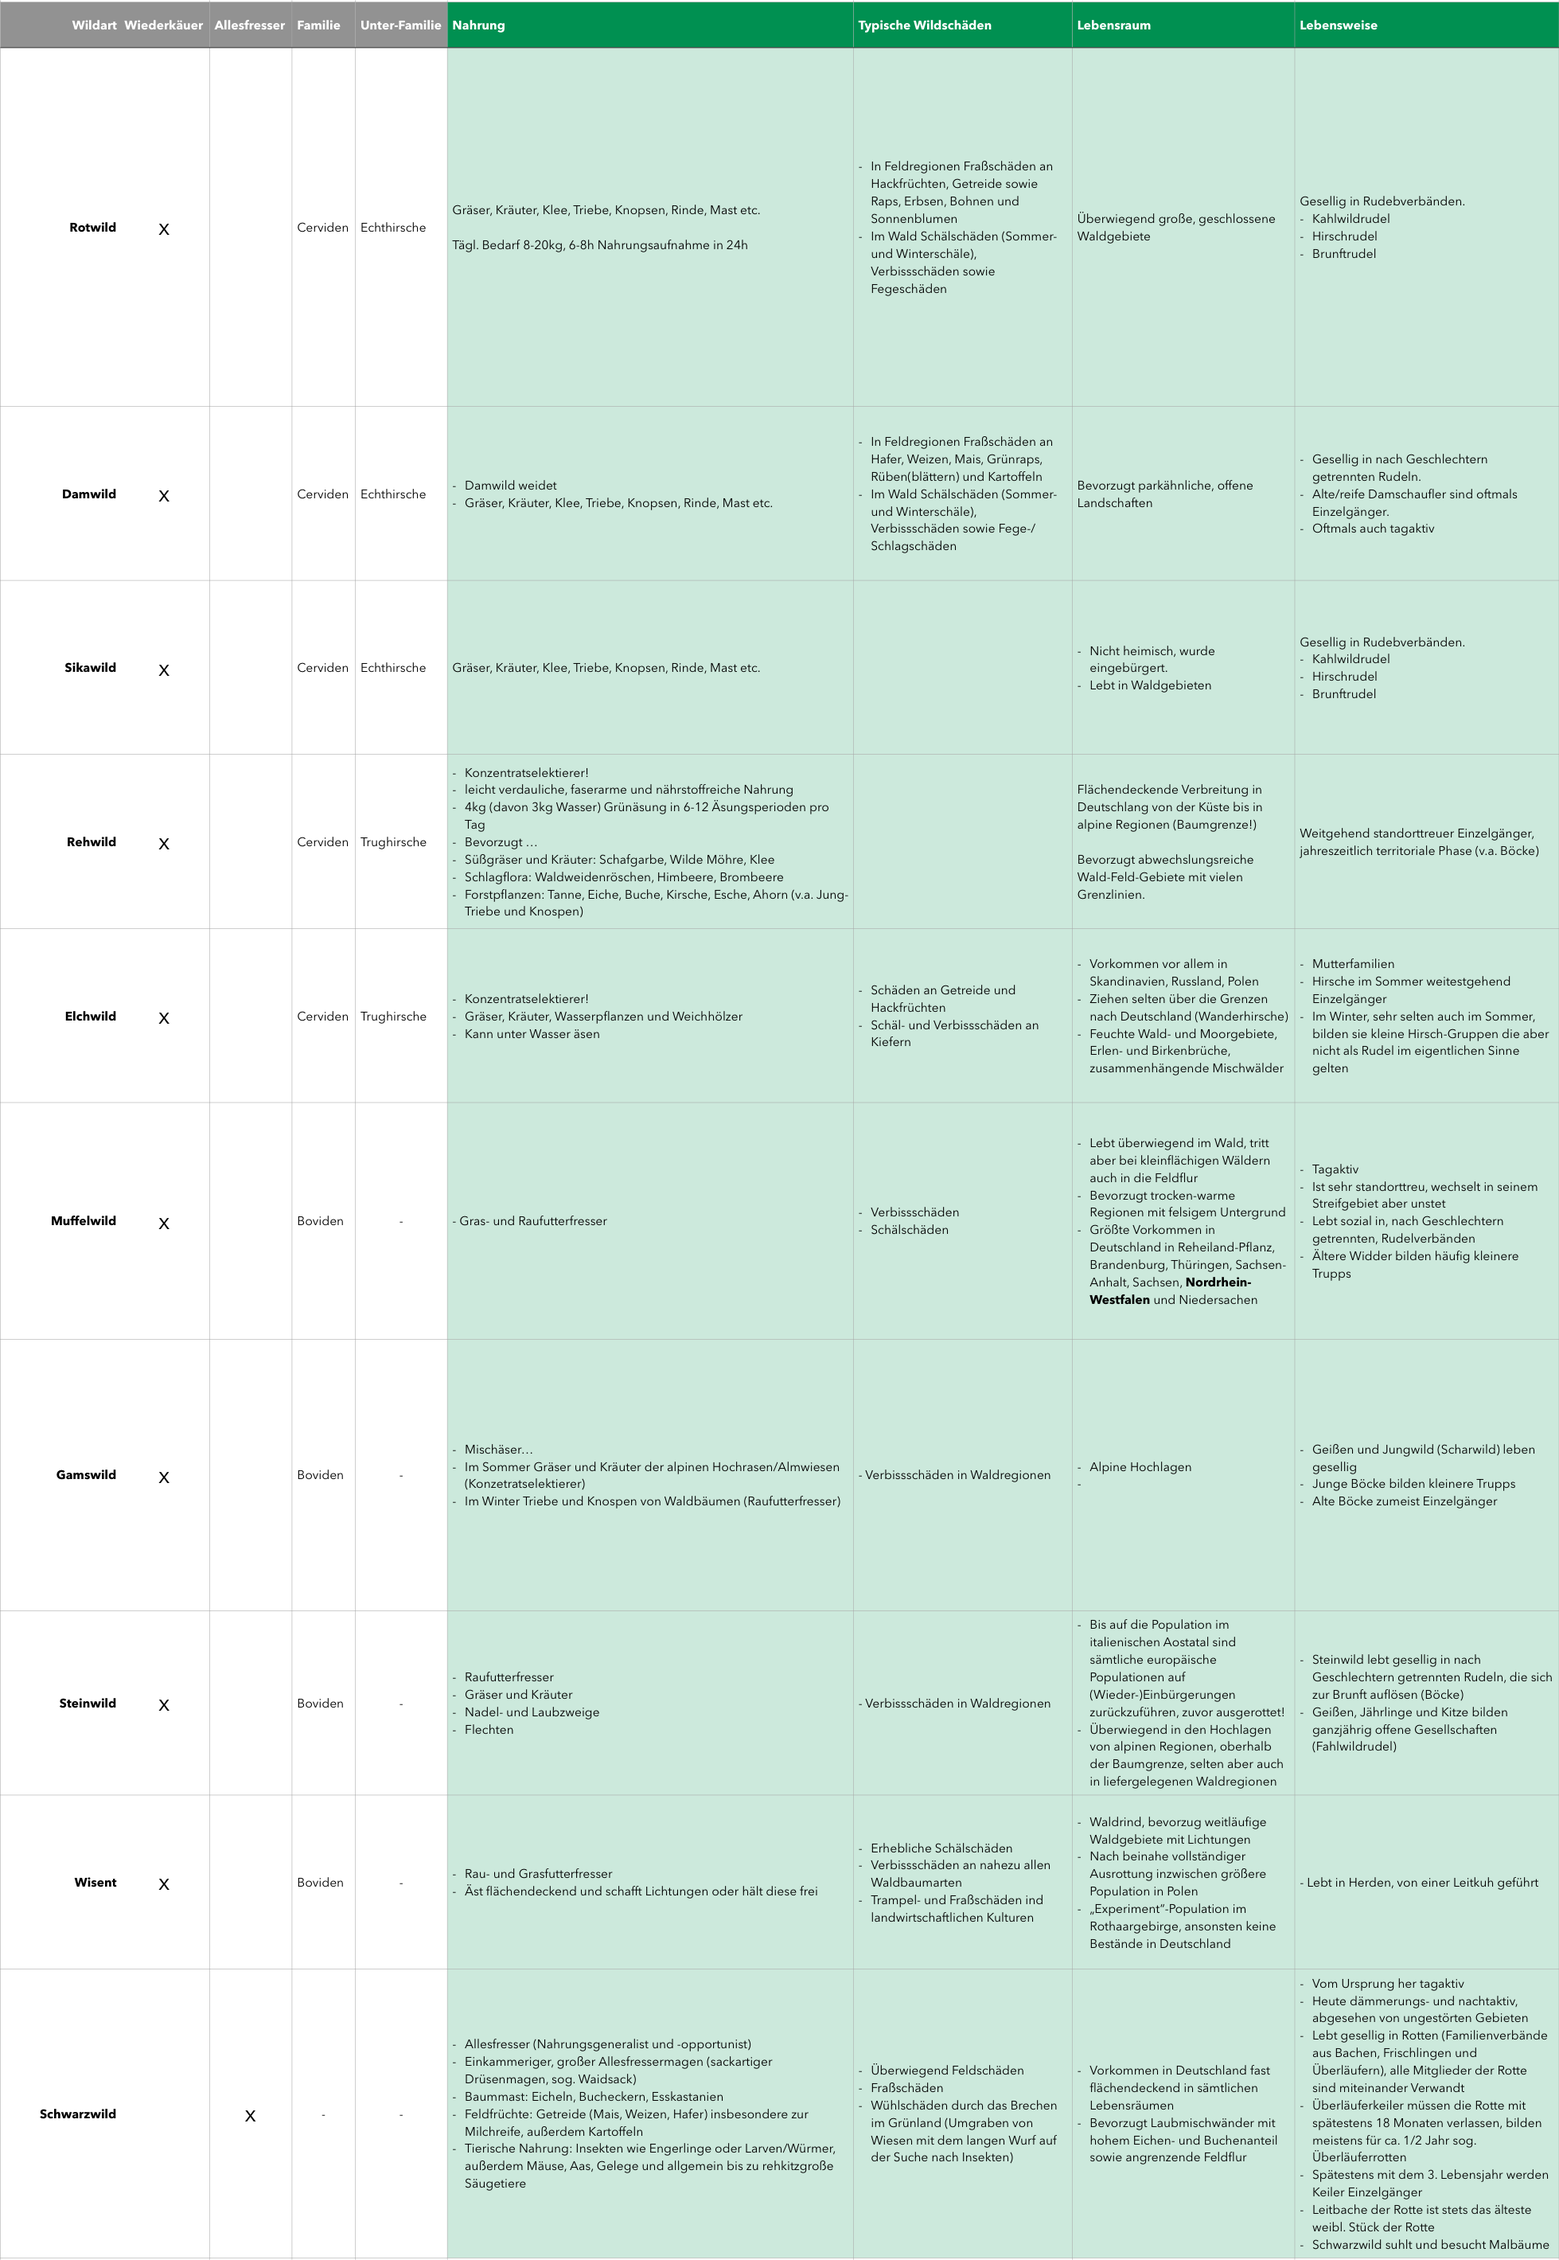
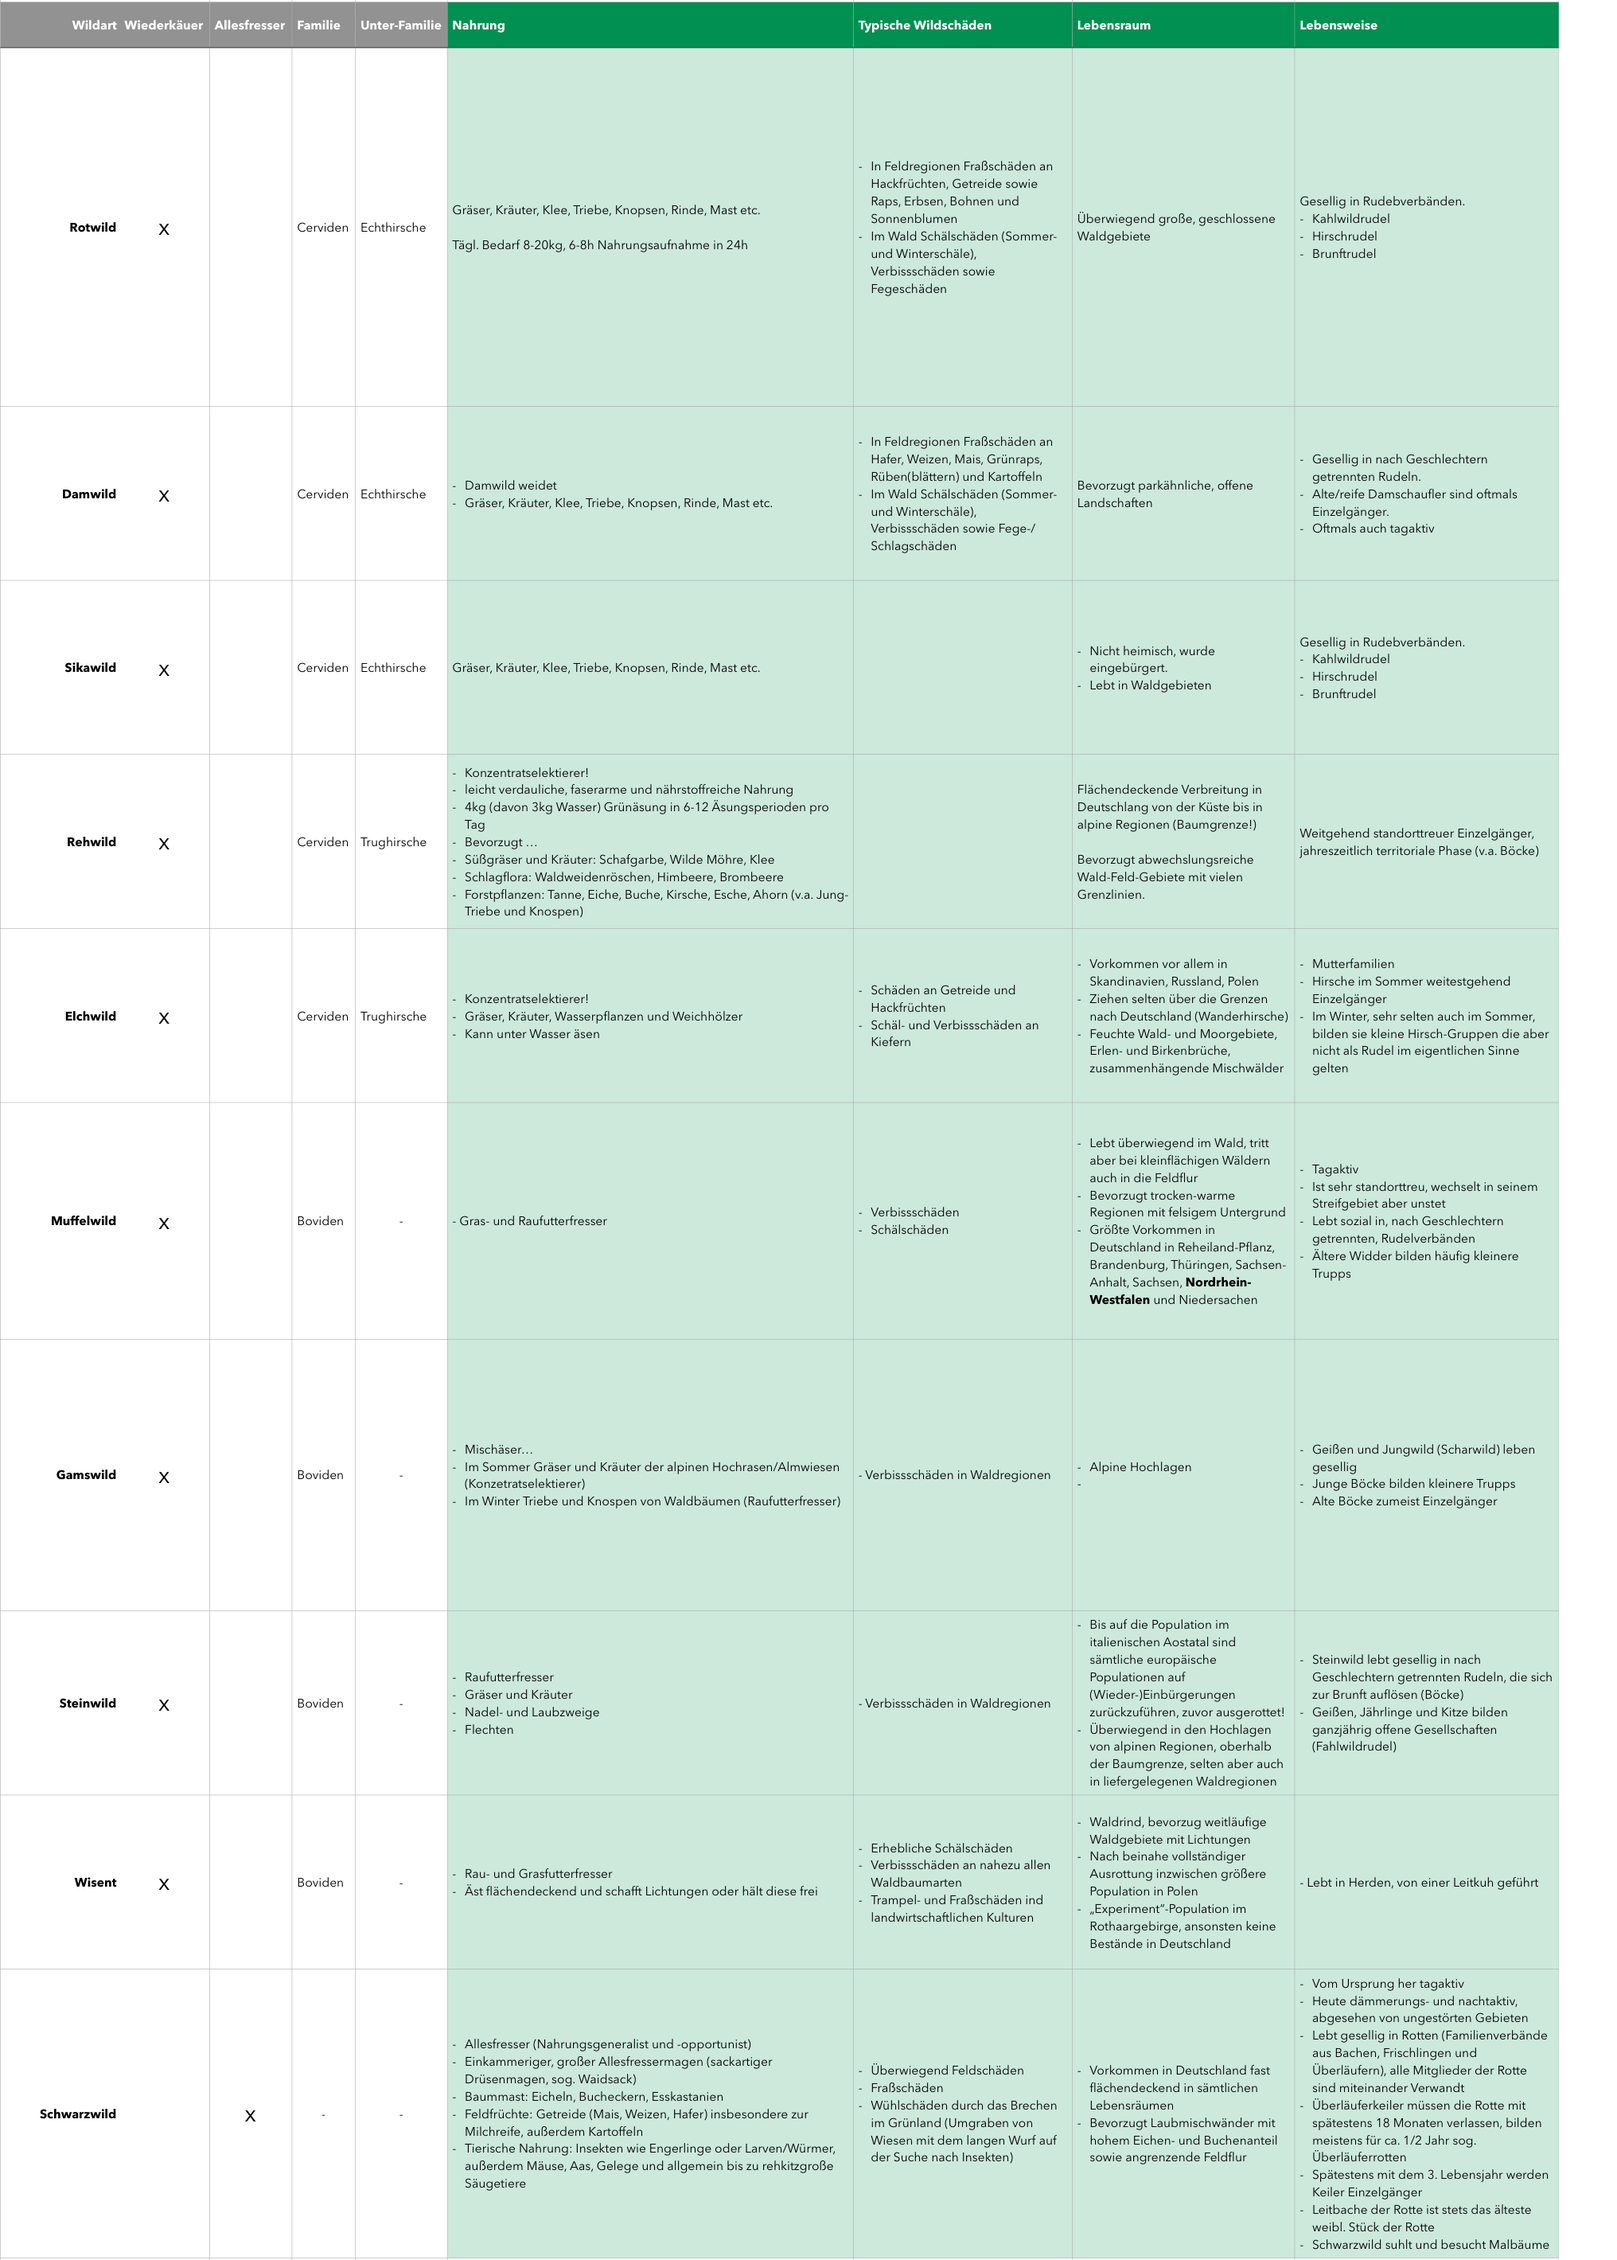
feat: images shortcode with three columns, Steckbrief tables side by side

diff --git a/layouts/shortcodes/images.html b/layouts/shortcodes/images.html
@@ -1,5 +1,6 @@
 {{- /*
   Images side by side in two columns, for two images that belong together.
+  With cols=3 in three columns (a table cut into parts, for example).
   Used in a post as
     {{< images >}}
     ![Alt text](./one.jpg)
@@ -10,6 +11,6 @@
   stack. The hook's "sizes" still say one full column, so a browser may load
   the next larger variant than the half width needs.
 */ -}}
-<div class="image-row">
+<div class="image-row{{ with .Get "cols" }} image-row--{{ . }}{{ end }}">
 {{- .Inner | .Page.RenderString (dict "display" "inline") -}}
 </div>

diff --git a/assets/css/custom.css b/assets/css/custom.css
@@ -1522,6 +1522,11 @@ figure a[data-lightbox] {
   margin: 1.5rem 0;
 }
 
+.image-row--3 {
+  grid-template-columns: repeat(3, 1fr);
+  gap: .5rem;
+}
+
 .image-row figure {
   margin: 0;
 }
@@ -1531,7 +1536,8 @@ figure a[data-lightbox] {
 }
 
 @media (max-width: 480px) {
-  .image-row {
+  .image-row,
+  .image-row--3 {
     grid-template-columns: 1fr;
   }
 }

diff --git a/content/blog/vorbereitungen-fur-die-jagdschein-prufungen/index.md b/content/blog/vorbereitungen-fur-die-jagdschein-prufungen/index.md
@@ -28,11 +28,11 @@ Im Laufe der Vorbereitung haben meine Partnerin und ich uns einige Hilfsmittel s
 
 Dazu kamen Steckbrief-Tabellen für Schalenwild, Raubwild sowie Hasenartige und Nager. Wir haben sie bewusst sehr hart heruntergebrochen: Pro Tierart steht nur das Wichtigste darin, von Nahrung und Lebensraum über Fortpflanzung und Gewicht bis zu Haarwechsel und Jagdzeit. Zum schnellen Wiederholen ist das Gold wert, denn in den dicken Büchern verteilt sich dasselbe Wissen auf viele Seiten. Hier seht ihr als Beispiel das Schalenwild, ein Klick auf die Bilder öffnet sie groß.
 
+{{< images cols=3 >}}
 ![Steckbrief-Tabelle zum Schalenwild, Teil 1: Wildart, Familie, Nahrung, Wildschäden, Lebensraum und Lebensweise von Rotwild bis Schwarzwild](./steckbrief-schalenwild-1-nahrung.png)
-
 ![Steckbrief-Tabelle zum Schalenwild, Teil 2: Fortpflanzung, Tragzeit, Setzzeit, Nachwuchs, Zahnentwicklung und Wildbretgewicht](./steckbrief-schalenwild-2-fortpflanzung.png)
-
 ![Steckbrief-Tabelle zum Schalenwild, Teil 3: Sommer- und Winterhaar, Abwurf- und Fegetermin, Jagdzeit, typische Jagdarten und Besonderheiten](./steckbrief-schalenwild-3-haar-jagd.png)
+{{< /images >}}
 
 ## Für künftige Jungjäger
 

diff --git a/README.md b/README.md
@@ -342,6 +342,9 @@ behalten ihren Alt-Text und öffnen die Lightbox:
 {{< /images >}}
 ```
 
+Mit `{{< images cols=3 >}}` stehen drei Bilder in einer Reihe, zum Beispiel eine in Teile geschnittene
+Tabelle. Inline sind sie dann klein, gelesen wird in der Lightbox.
+
 ### Drei oder mehr Bilder als Galerie
 
 Stehen in einem Beitrag drei oder mehr Bilder zusammen, kommen sie mit dem Shortcode `gallery`
